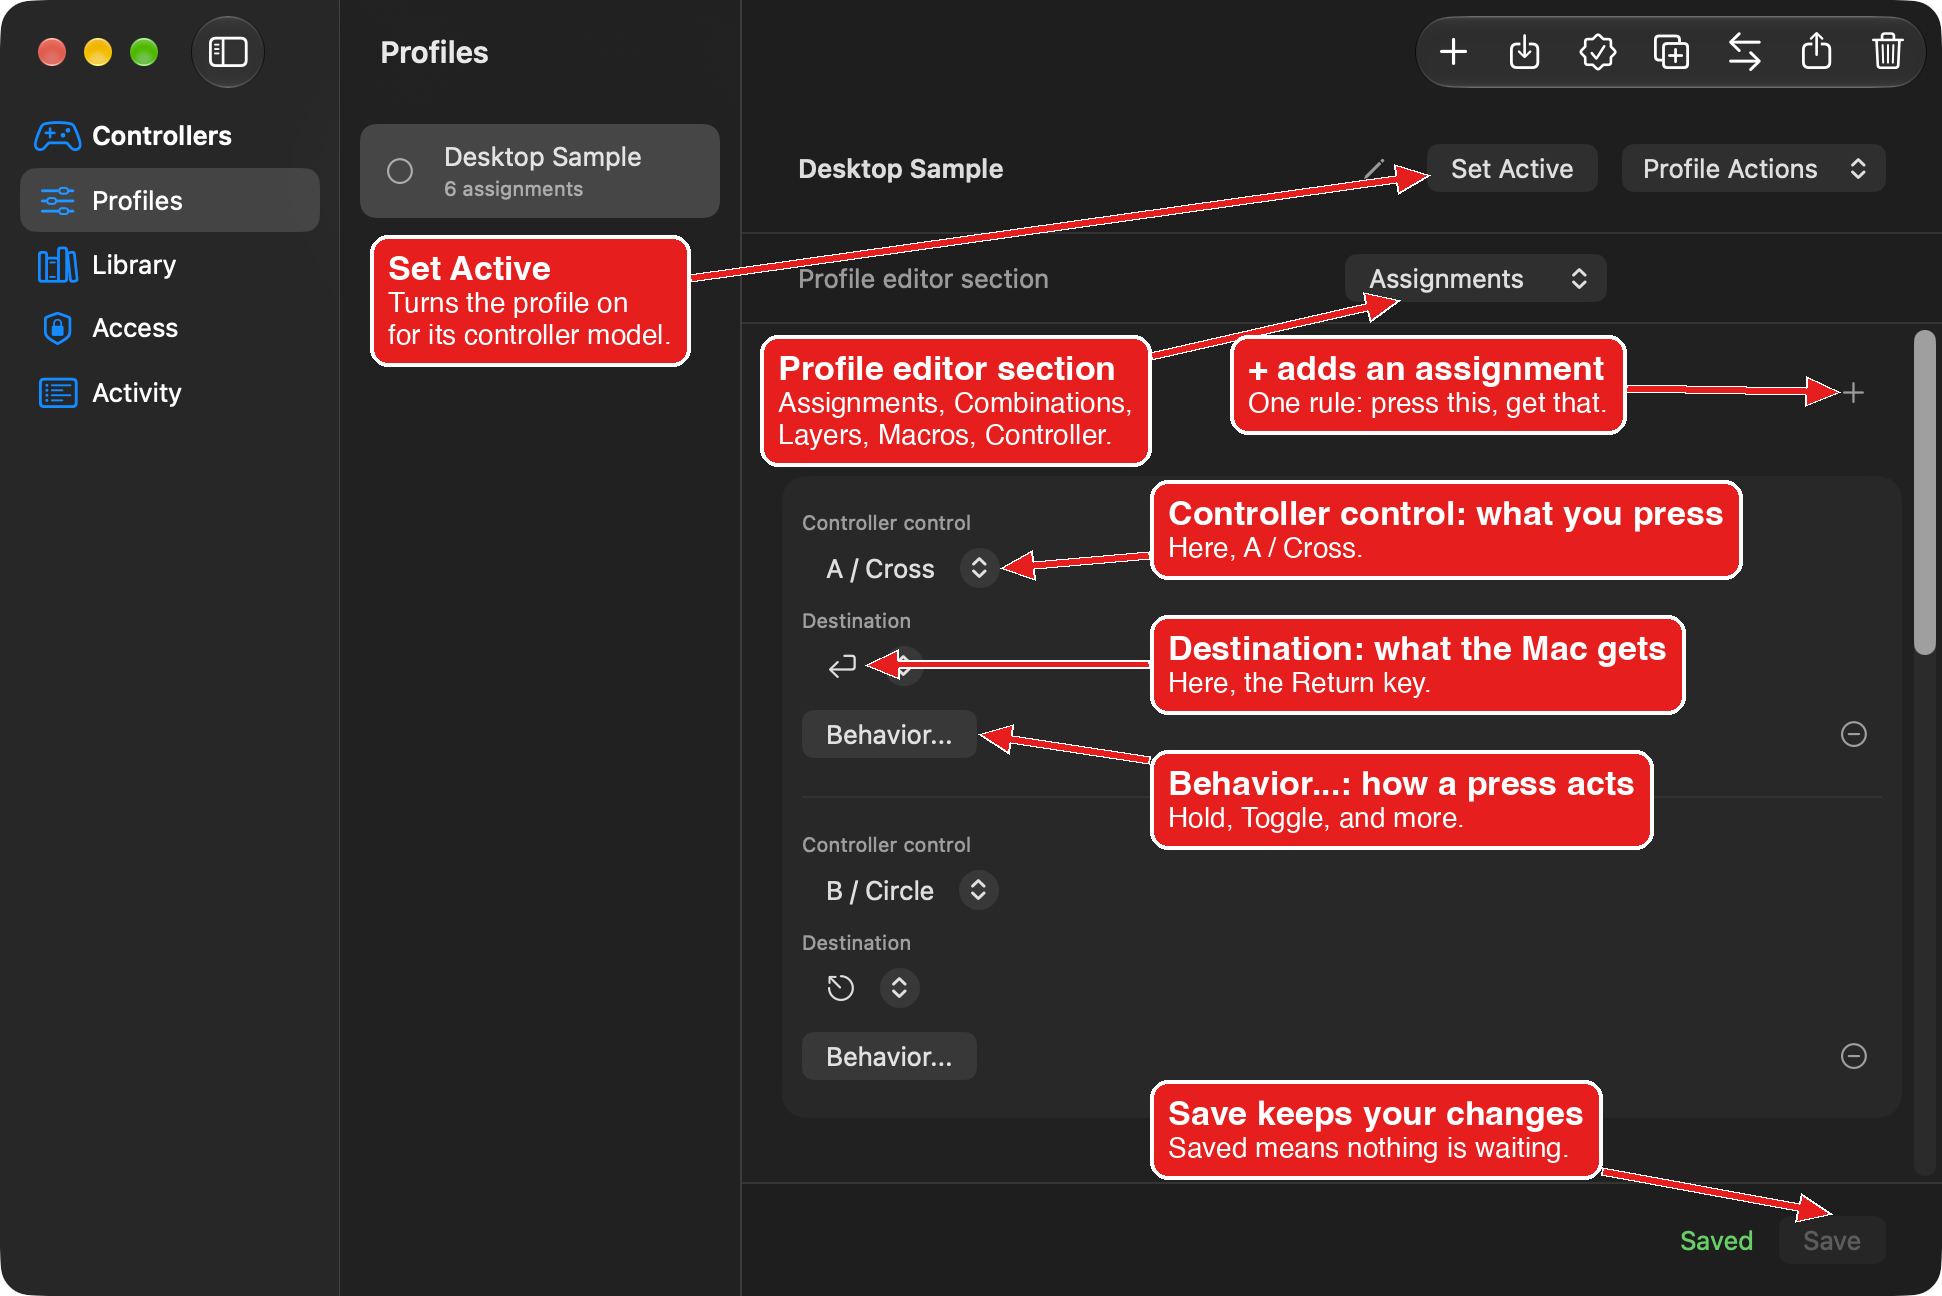
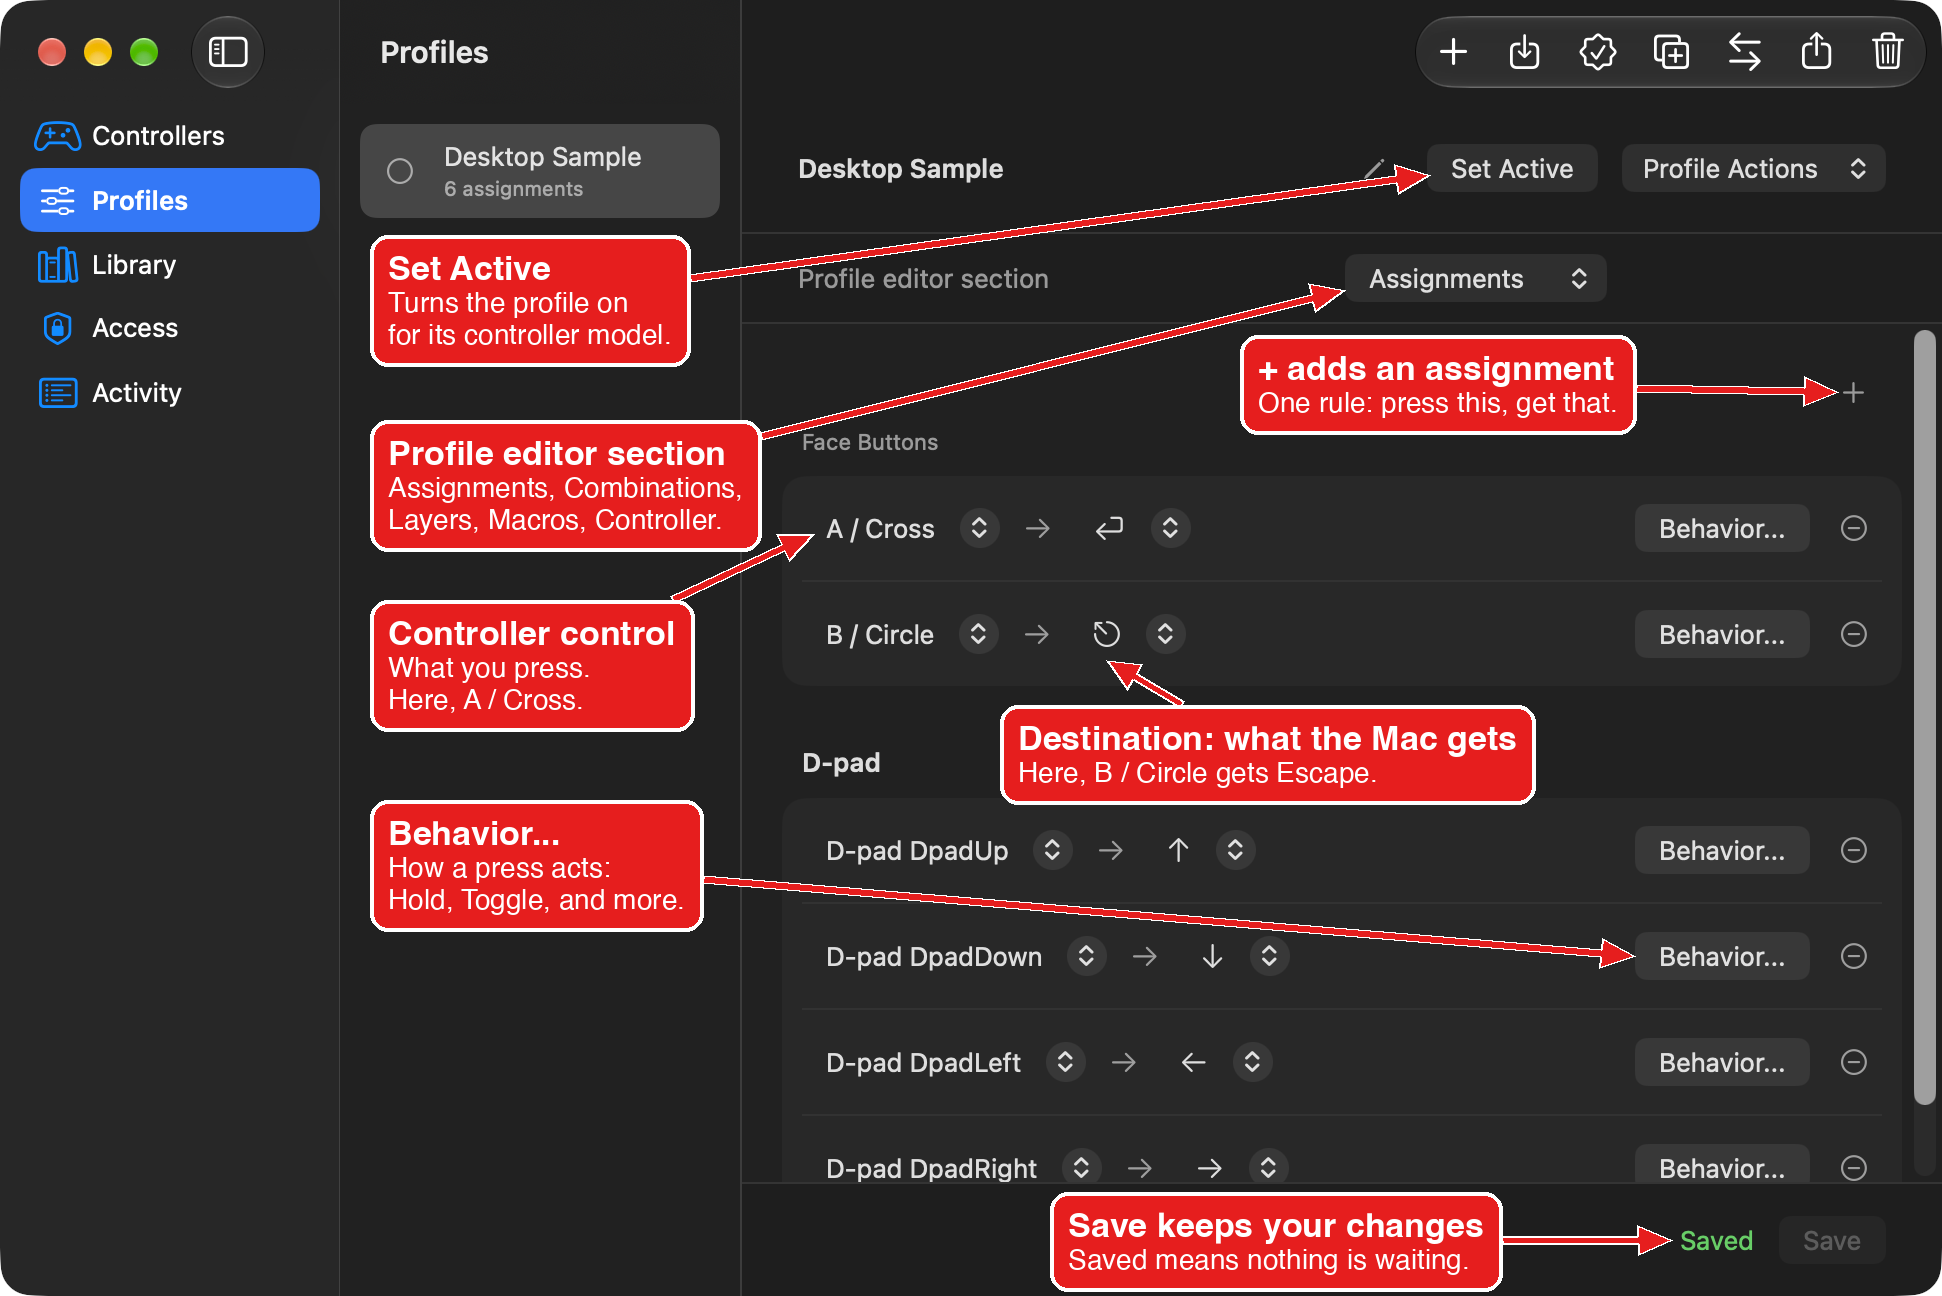
docs(wiki): retake the profile pictures with one-line assignments

diff --git a/Scripts/GUI/step_pictures.py b/Scripts/GUI/step_pictures.py
@@ -206,38 +206,38 @@ PICTURES: tuple[StepPicture, ...] = (
                 ("Turns the profile on", "for its controller model."),
             ),
             Callout(
-                (1400, 300),
-                (760, 335),
+                (1345, 290),
+                (370, 420),
                 "Profile editor section",
                 ("Assignments, Combinations,", "Layers, Macros, Controller."),
             ),
             Callout(
-                (1840, 392),
-                (1230, 335),
+                (814, 534),
+                (370, 600),
+                "Controller control",
+                ("What you press.", "Here, A / Cross."),
+            ),
+            Callout(
+                (1106, 660),
+                (1000, 705),
+                "Destination: what the Mac gets",
+                ("Here, B / Circle gets Escape.",),
+            ),
+            Callout(
+                (1838, 392),
+                (1240, 335),
                 "+ adds an assignment",
                 ("One rule: press this, get that.",),
             ),
             Callout(
-                (1000, 568),
-                (1150, 480),
-                "Controller control: what you press",
-                ("Here, A / Cross.",),
+                (1635, 956),
+                (370, 800),
+                "Behavior...",
+                ("How a press acts:", "Hold, Toggle, and more."),
             ),
             Callout(
-                (865, 665),
-                (1150, 615),
-                "Destination: what the Mac gets",
-                ("Here, the Return key.",),
-            ),
-            Callout(
-                (978, 734),
-                (1150, 750),
-                "Behavior...: how a press acts",
-                ("Hold, Toggle, and more.",),
-            ),
-            Callout(
-                (1832, 1214),
-                (1150, 1080),
+                (1672, 1240),
+                (1050, 1192),
                 "Save keeps your changes",
                 ("Saved means nothing is waiting.",),
             ),
